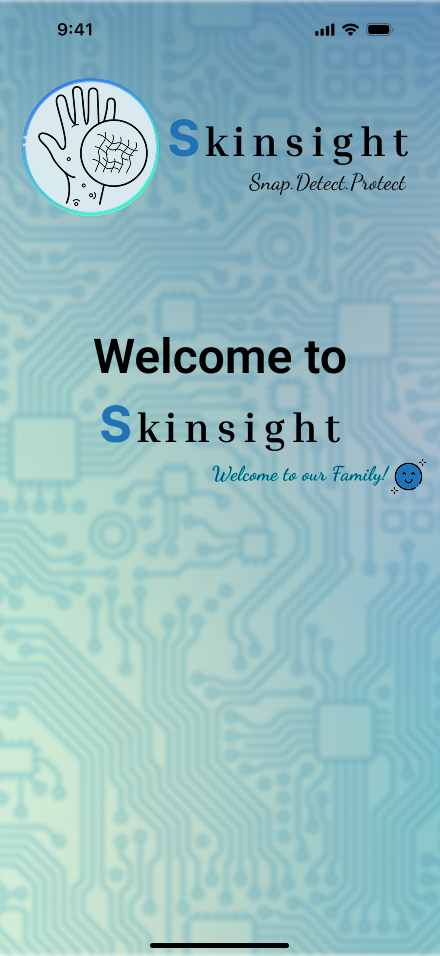
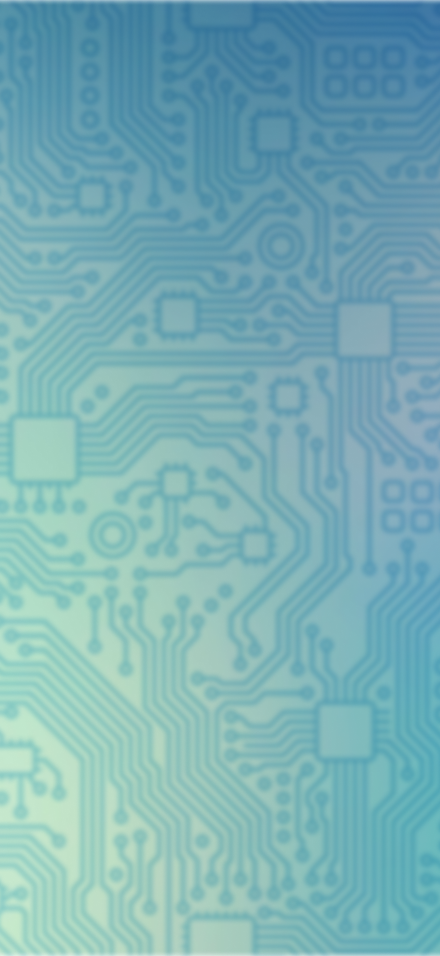
last touch

diff --git a/app/Starthome.tsx b/app/Starthome.tsx
@@ -1,65 +1,82 @@
 import { router } from "expo-router";
 import React, { useState } from "react";
-import { View, Image, StyleSheet, TouchableOpacity, Text } from 'react-native'
+import { View, Image, StyleSheet, TouchableOpacity, Text } from "react-native";
 import { SafeAreaView } from "react-native-safe-area-context";
-import AsyncStorage from "@react-native-async-storage/async-storage"; // <-- Added this
+import AsyncStorage from "@react-native-async-storage/async-storage";
 
 export default function StartUp() {
   const [showImage] = useState(true);
 
-  // <-- We added an async function to permanently save the flag when they click the button
   const handleProceedHome = async () => {
     await AsyncStorage.setItem("hasSeenOnboarding", "true");
     router.replace("/Screensbar/Nextscreens");
   };
 
   return (
-    <>
-      <SafeAreaView style={{flex:1}}>
-          <View style={styles.container}>
-        {showImage && (
-          <Image
-            source={require("../assets/images/Starthome.png")}
-            style={styles.image}
-          />
-        )}
-        <TouchableOpacity style={styles.button1} onPress={handleProceedHome}>
-          <Text style={styles.text1}>Home</Text>
-        </TouchableOpacity >
-      </View>
-    </SafeAreaView>
-    </>
-  )
-};
+    <View style={styles.container}>
+      {/* الطبقة الأولى - مالية الصفحة كلها */}
+      {showImage && (
+        <Image
+          source={require("../assets/images/Starthome.png")}
+          style={styles.backgroundImage}
+        />
+      )}
+
+      {/* الطبقة الثانية - فوق الأولى */}
+      <Image
+        source={require("../assets/images/textstarthome.png")}
+        style={styles.overlayImage}
+      />
+
+      {/* الزرار */}
+      <TouchableOpacity style={styles.button1} onPress={handleProceedHome}>
+        <Text style={styles.text1}>Home</Text>
+      </TouchableOpacity>
+    </View>
+  );
+}
 
 const styles = StyleSheet.create({
   container: {
     flex: 1,
-    justifyContent: "center",
-    alignItems: "center",
-    backgroundColor: "#fff",
   },
-  image: {
-    resizeMode:"cover",
+  backgroundImage: {
+    position: "absolute", // ← مالية الصفحة كلها
+    top: 0,
+    left: 0,
+    right: 0,
+    bottom: 0,
+    width: "100%",
+    height: "100%",
+    resizeMode: "cover",
   },
-    button1: {
-    position: 'absolute',
-    bottom: '30%',
-    width: '80%',
+  overlayImage: {
+    position: "absolute",
+    top: 0,
+    width: "100%",
+    height: "65%", // ← نص الشاشة
+    alignSelf: "center",
+    resizeMode: "contain",
+  },
+  button1: {
+    position: "absolute",
+    bottom: "20%",
+    alignSelf: "center",
+    width: "80%",
     alignItems: "center",
-    backgroundColor: '#004F7F',
+    backgroundColor: "#004F7F",
     paddingVertical: 15,
     paddingHorizontal: 32,
     borderRadius: 8,
-    shadowColor: '#000',
+    shadowColor: "#000",
     shadowOffset: { width: 2, height: 2 },
     shadowOpacity: 0.3,
     shadowRadius: 4,
     elevation: 5,
   },
-      text1: {
-    color: '#fff',
+  text1: {
+    color: "#fff",
     fontSize: 16,
-    fontWeight: 'bold',
+    fontWeight: "bold",
   },
 });